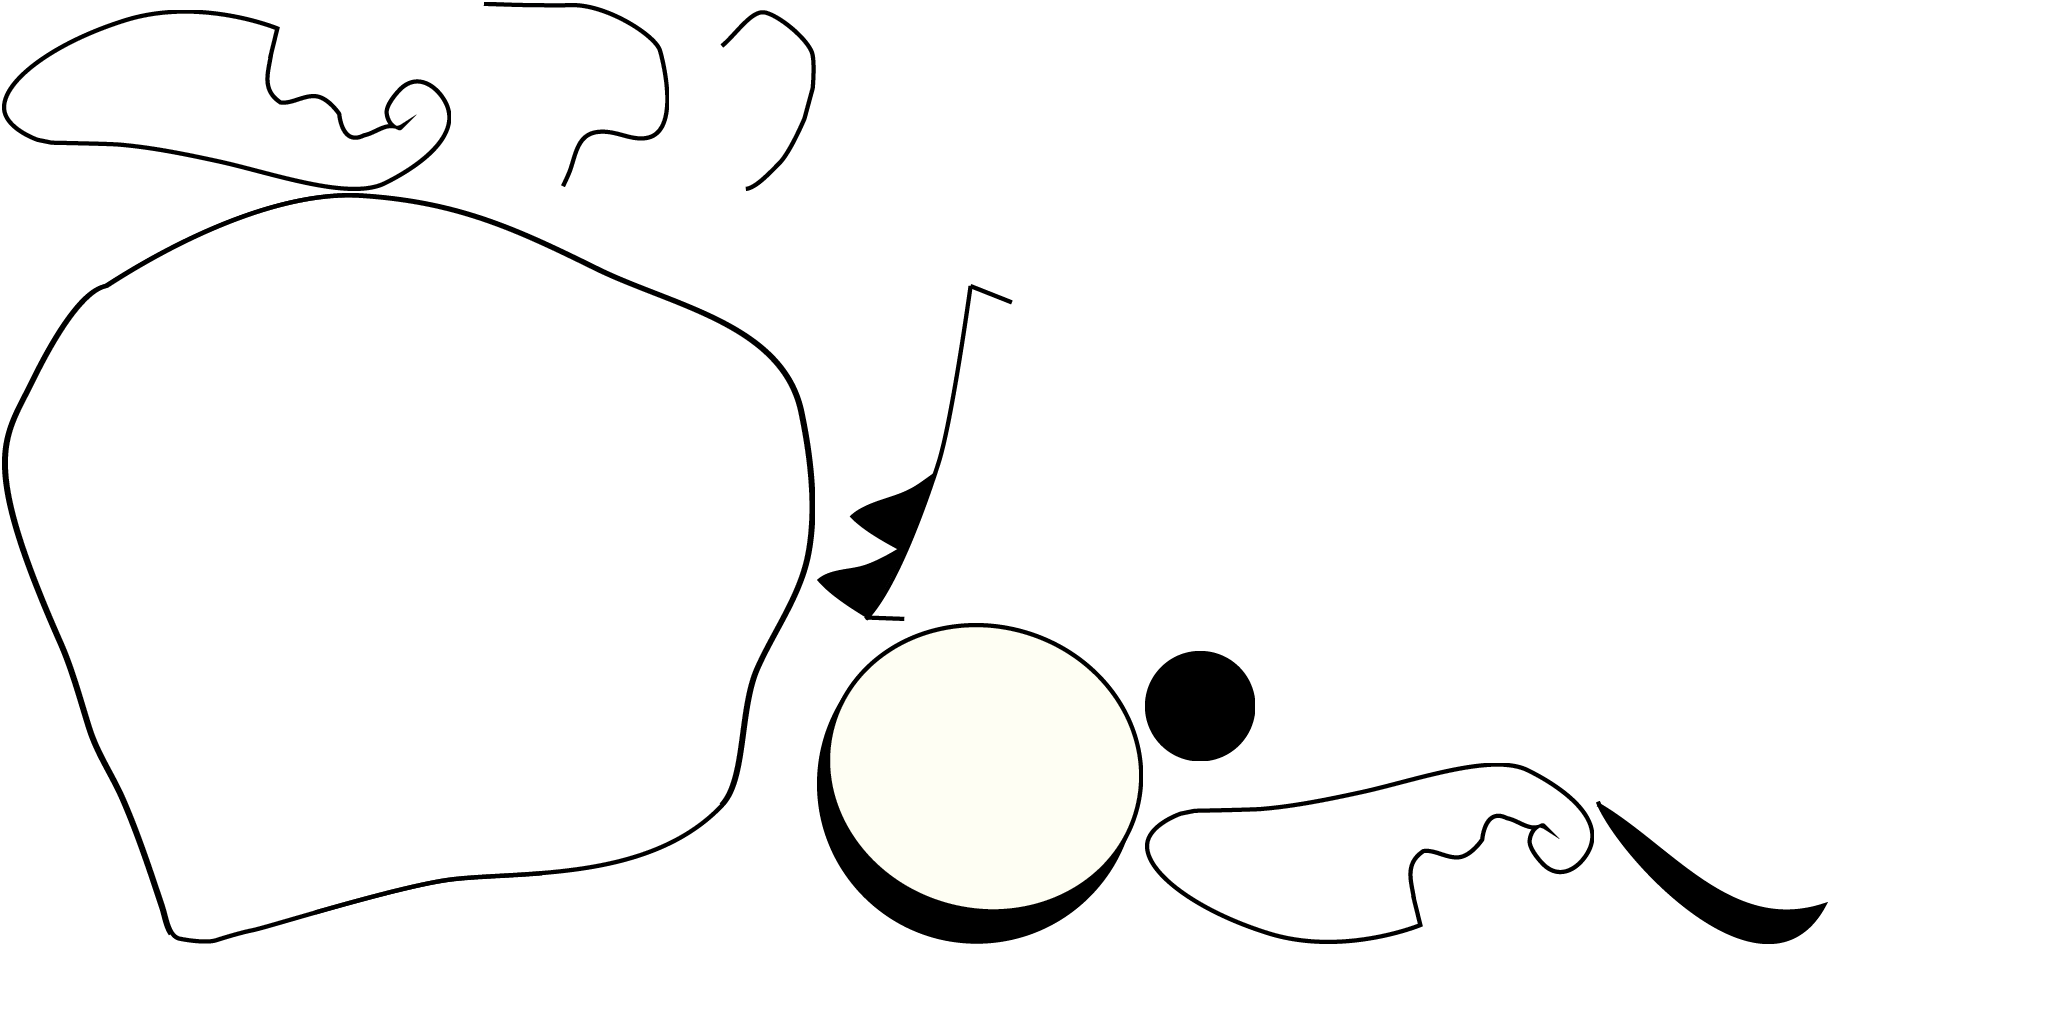
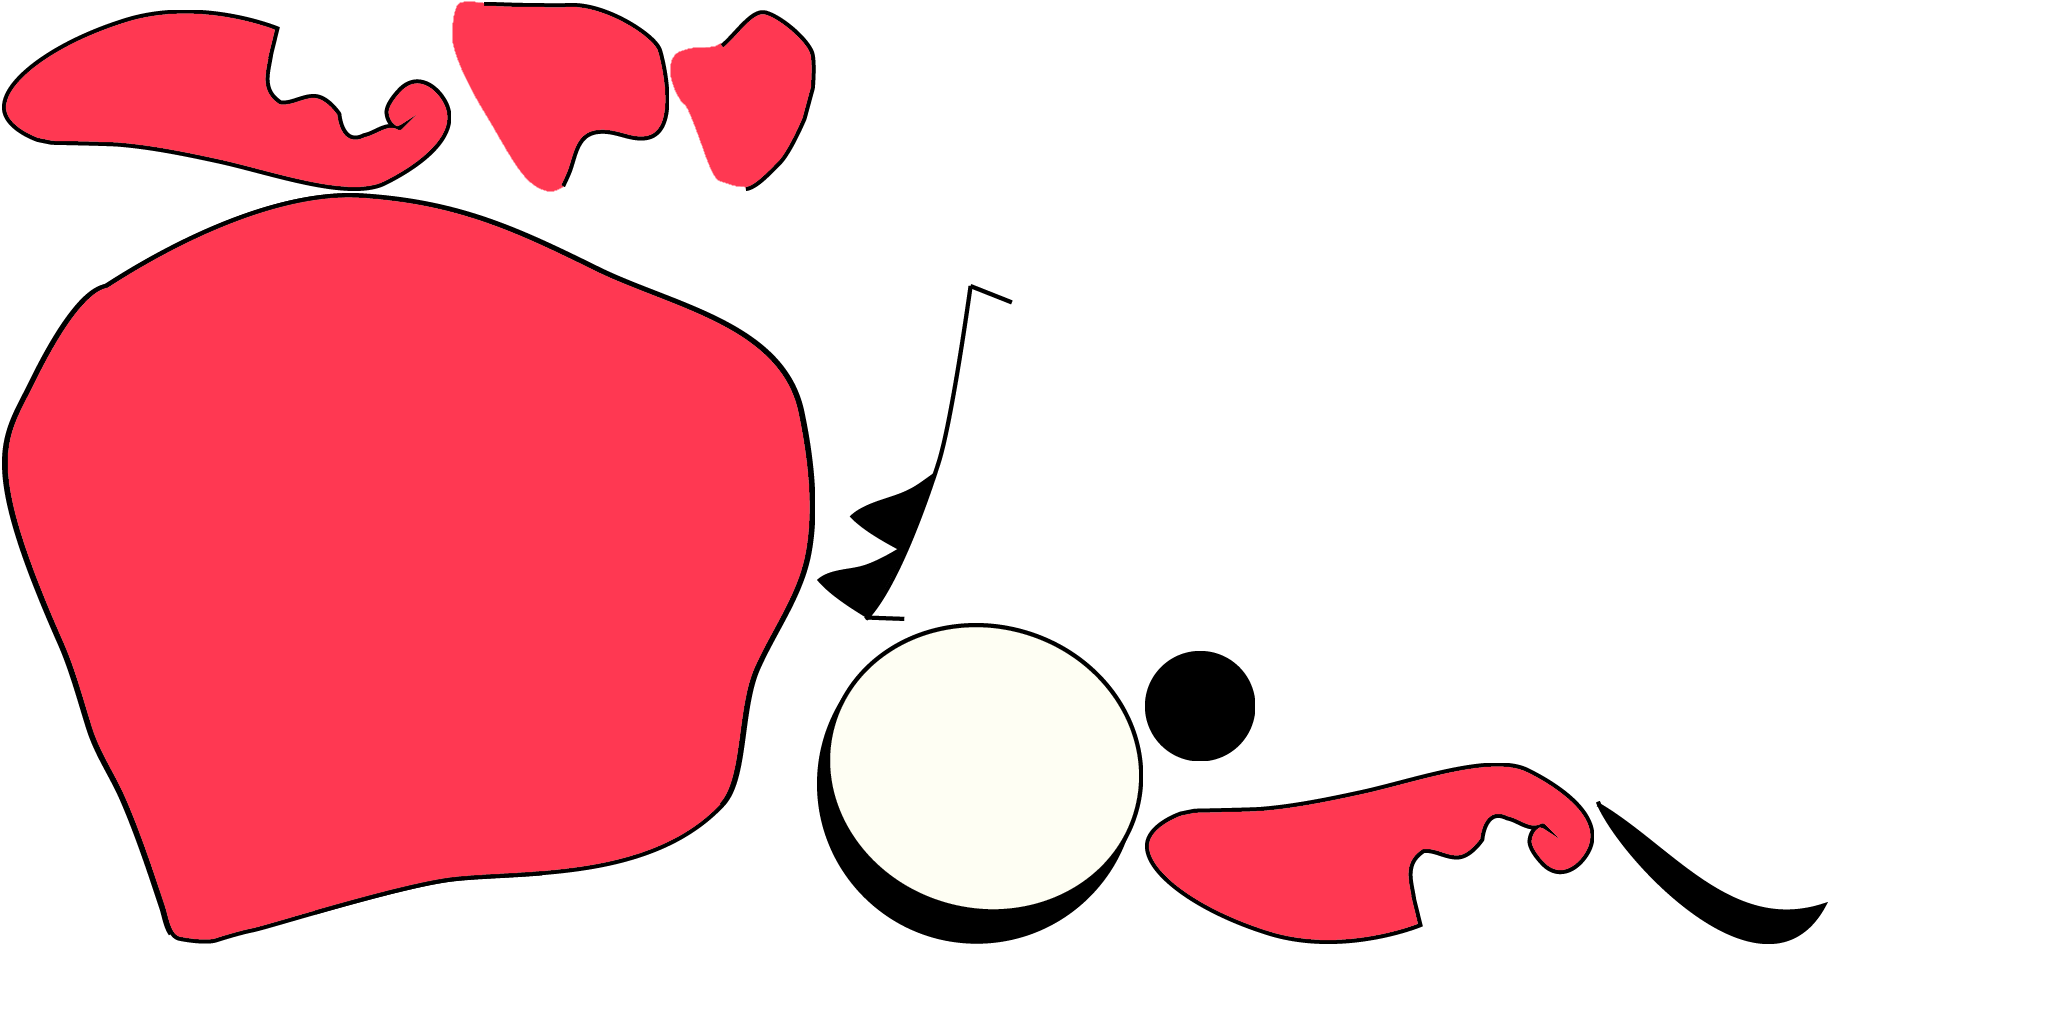
#98 new chip integration, chip animation

Changed region(s): [[0.0, 0.0, 0.4062, 0.9375], [0.5625, 0.75, 0.7812, 0.9375]]

diff --git a/src/game/application/board/chip.js b/src/game/application/board/chip.js
@@ -3,28 +3,37 @@
 import hexcraft from '../../application.js';
 import Hex from './hex.js';
 
-export default class Chip extends PIXI.Sprite {
+export default class Chip extends PIXI.Container {
   constructor(i, j, player){
     super();
 
-    this.colors = {
-      player1: '0xb71c1c',
-      player2: '0x0D47A1'
-    };
-
-    const textures = [
-      hexcraft.resources.chip1.blobUrl,
-      hexcraft.resources.chip2.blobUrl,
-      hexcraft.resources.chip3.blobUrl
+    // constants
+    const spines = [
+      hexcraft.resources.new_chip1.spineData,
+      hexcraft.resources.new_chip2.spineData,
+      hexcraft.resources.new_chip3.spineData
     ];
 
-    const random = Math.floor(Math.random() * 3) + 0;
-    this.texture = PIXI.Texture.fromImage(textures[random]);
+    const random = Math.floor(Math.random() * 3) + 0; // TODO: seed this
+
+    // spine
+    this.chipSpine = new PIXI.spine.Spine(spines[random]);
+    this.chipSpine.scale.set(.060);
+    this.chipSpine.position.set(35, 40);
+    this.chipSpine.state.setAnimationByName(0, 'stand', true);
+    this.addChild(this.chipSpine);
+
+    // position
+    let position = Hex.indexToCoordinates(i, j);
 
     this.i = i;
     this.j = j;
-    this.position = Hex.indexToCoordinates(i, j);
+    this.position.set(position.x, position.y);
     this.updateOldPosition();
+
+    // other
+    this.color = new PIXI.filters.ColorMatrixFilter();
+    this.filters = [this.color];
     this.changeOwner(player);
 
     this.on('mousedown', this.onDragStart)
@@ -52,7 +61,9 @@ export default class Chip extends PIXI.Sprite {
   }
 
   changeOwner(player) {
-    this.tint = this.colors[player];
+    let degrees = (player === 'player1')? 0 : -150;
+    this.color.hue(degrees);
+
     this.player = player;
   }
 
@@ -70,6 +81,7 @@ export default class Chip extends PIXI.Sprite {
 
   onDragStart(event) {
     this.chipSound();
+    this.chipSpine.state.setAnimationByName(0, 'drag', true);
 
     this.data = event.data;
     this.updateOldPosition();
@@ -89,6 +101,7 @@ export default class Chip extends PIXI.Sprite {
 
   onDragEnd() {
 
+    this.chipSpine.state.setAnimationByName(0, 'stand', true);
     new window.Audio(hexcraft.resources.endStep.blobUrl).play();
 
     this.data = null;
